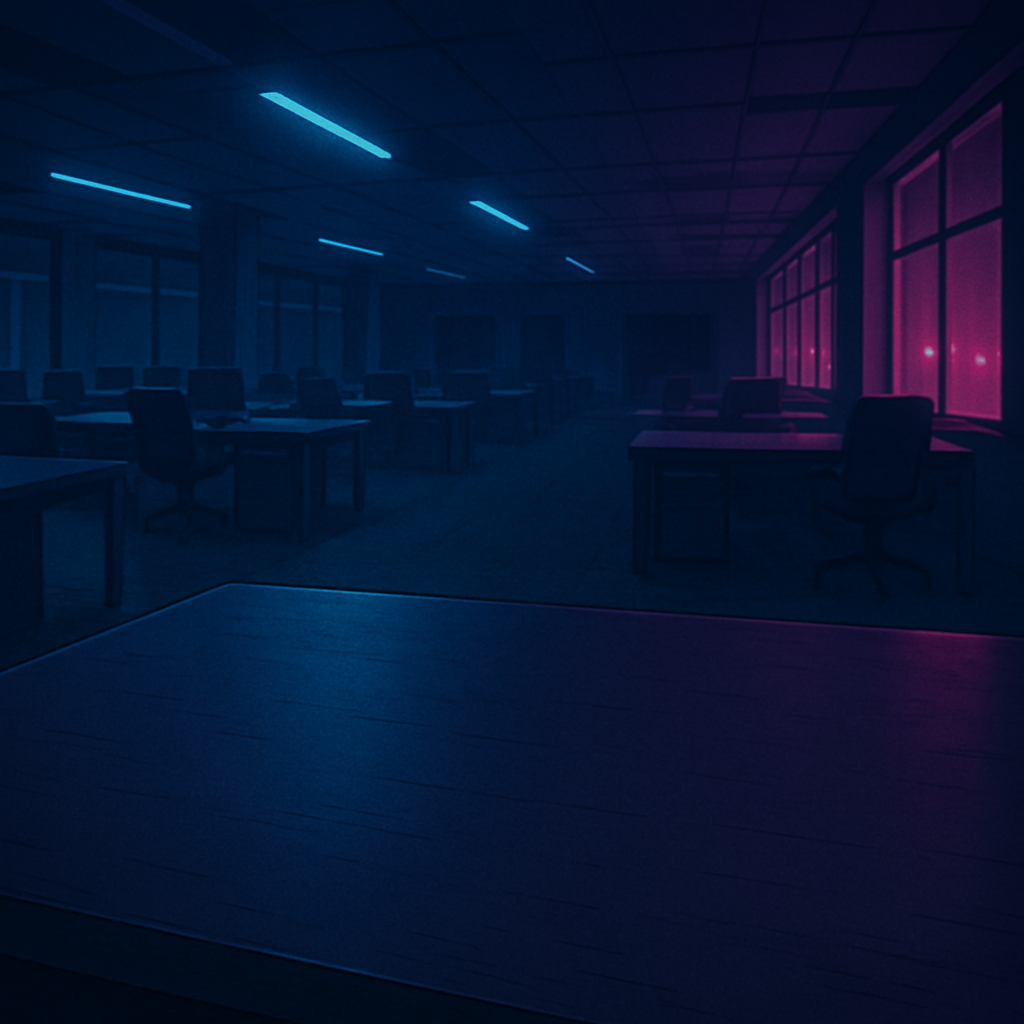
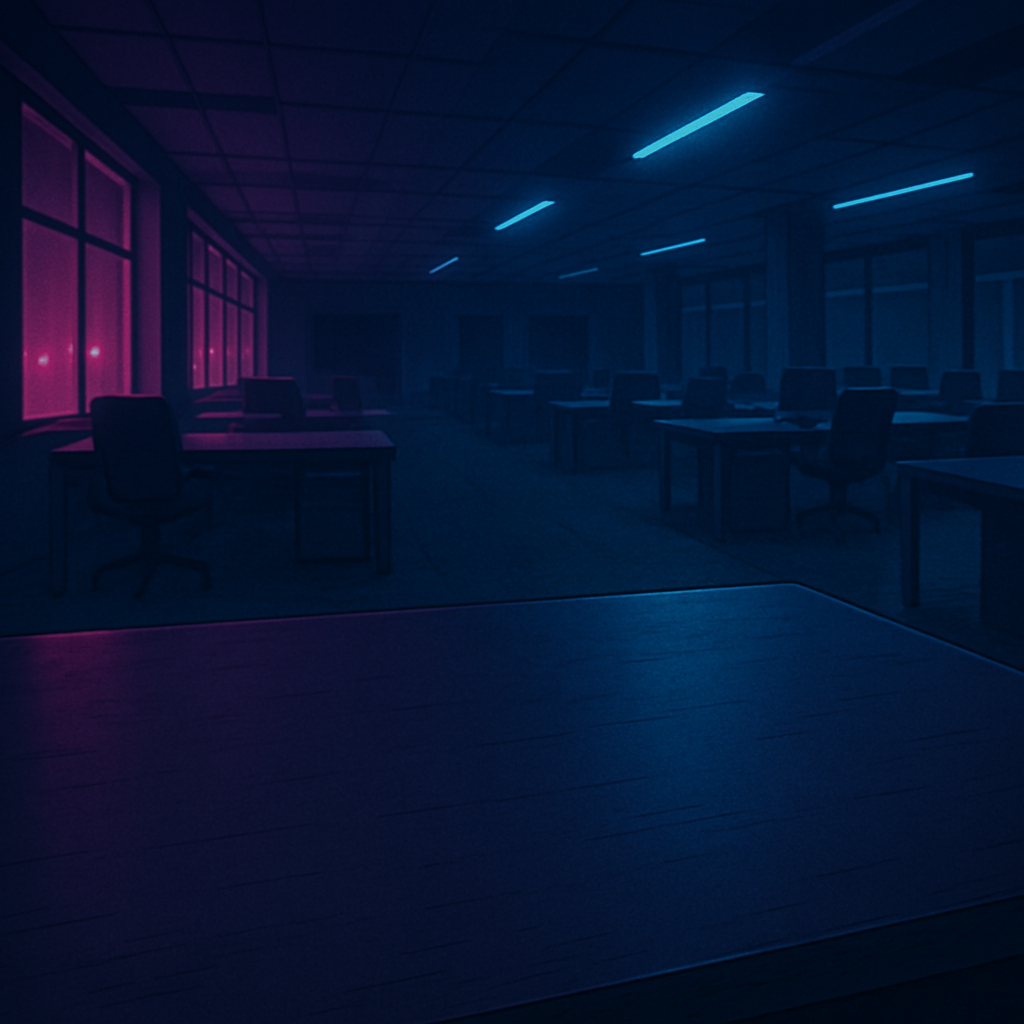
feat: Ajustar escala e posição dos sprites na Cena1Trabalho e Cena2Rua

diff --git a/src/scenes/Cena2RuaScene.ts b/src/scenes/Cena2RuaScene.ts
@@ -44,8 +44,8 @@ export class Cena2RuaScene extends Scene {
                 transparent: true
             });
             this.handSprite = new THREE.Sprite(handMaterial);
-            this.handSprite.scale.set(2, 2, 1);
-            this.handSprite.position.set(0, -1, 0.1); // Positioned at bottom
+            this.handSprite.scale.set(7.25, 5, 1);
+            this.handSprite.position.set(3, -2, 0.1); // Positioned at bottom
             this.handSprite.name = "Hand";
             this.threeScene.add(this.handSprite);
 
@@ -103,7 +103,7 @@ export class Cena2RuaScene extends Scene {
         // Animate hand bobbing
         if (this.handSprite) {
             this.timeAccumulator += deltaTime;
-            this.handSprite.position.y = -1 + Math.sin(this.timeAccumulator * 5) * 0.1;
+            this.handSprite.position.y = -1.5 + Math.sin(this.timeAccumulator * 5) * 0.1;
         }
     }
 

diff --git a/src/scenes/Cena1TrabalhoScene.ts b/src/scenes/Cena1TrabalhoScene.ts
@@ -59,8 +59,8 @@ export class Cena1TrabalhoScene extends Scene {
                 transparent: true
             });
             this.notebookSprite = new THREE.Sprite(notebookMaterial);
-            this.notebookSprite.scale.set(2, 2, 1);
-            this.notebookSprite.position.set(0, 0, 0.1); // Slightly in front of background
+            this.notebookSprite.scale.set(5, 5, 1);
+            this.notebookSprite.position.set(1, -1.5, 0.1); // Slightly in front of background
             this.notebookSprite.name = "Notebook";
             this.threeScene.add(this.notebookSprite);
 
